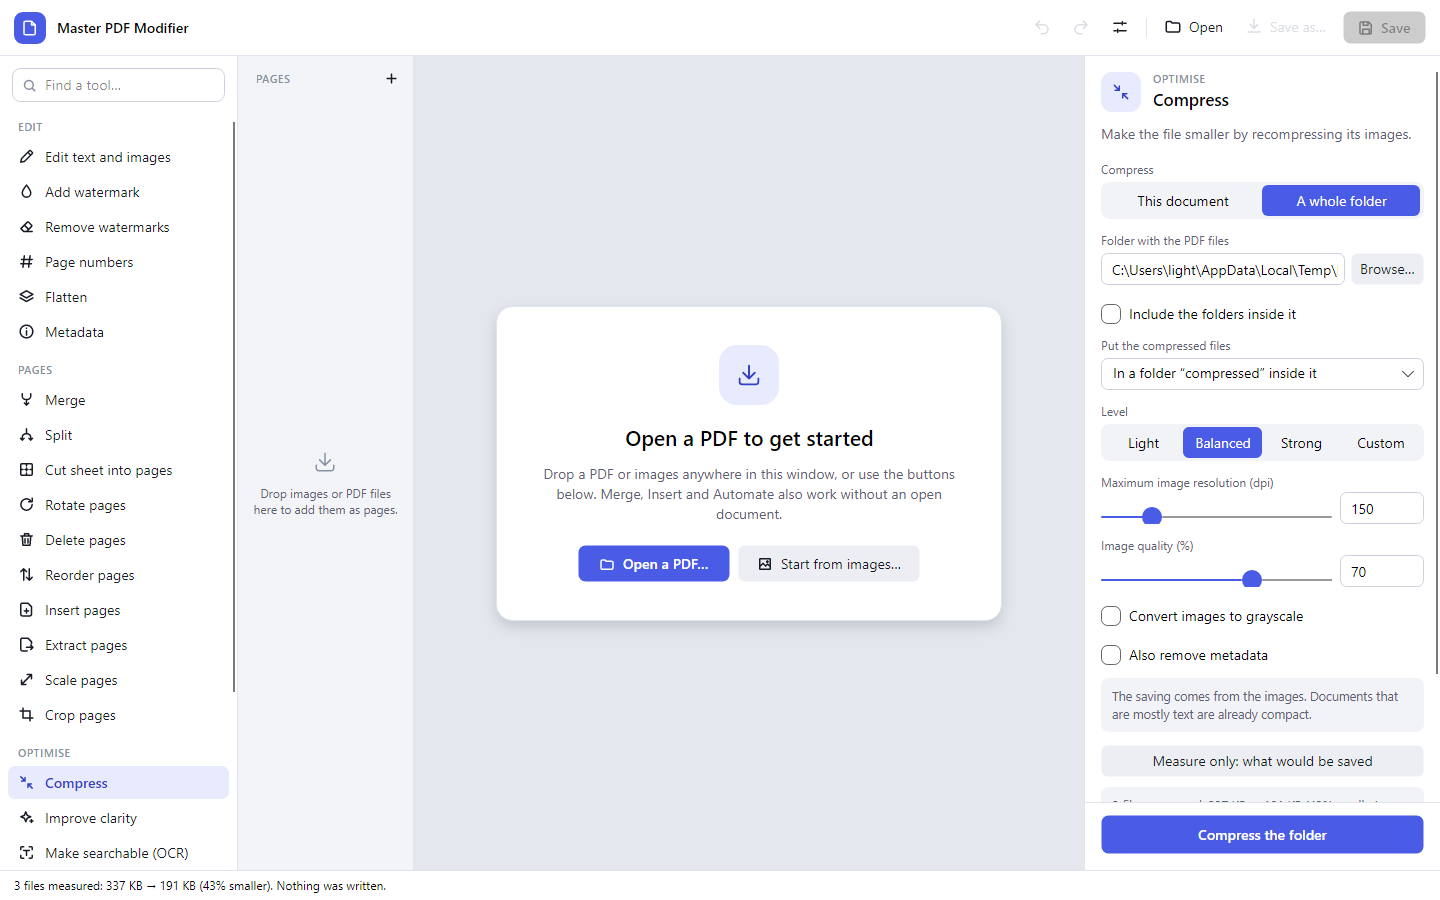
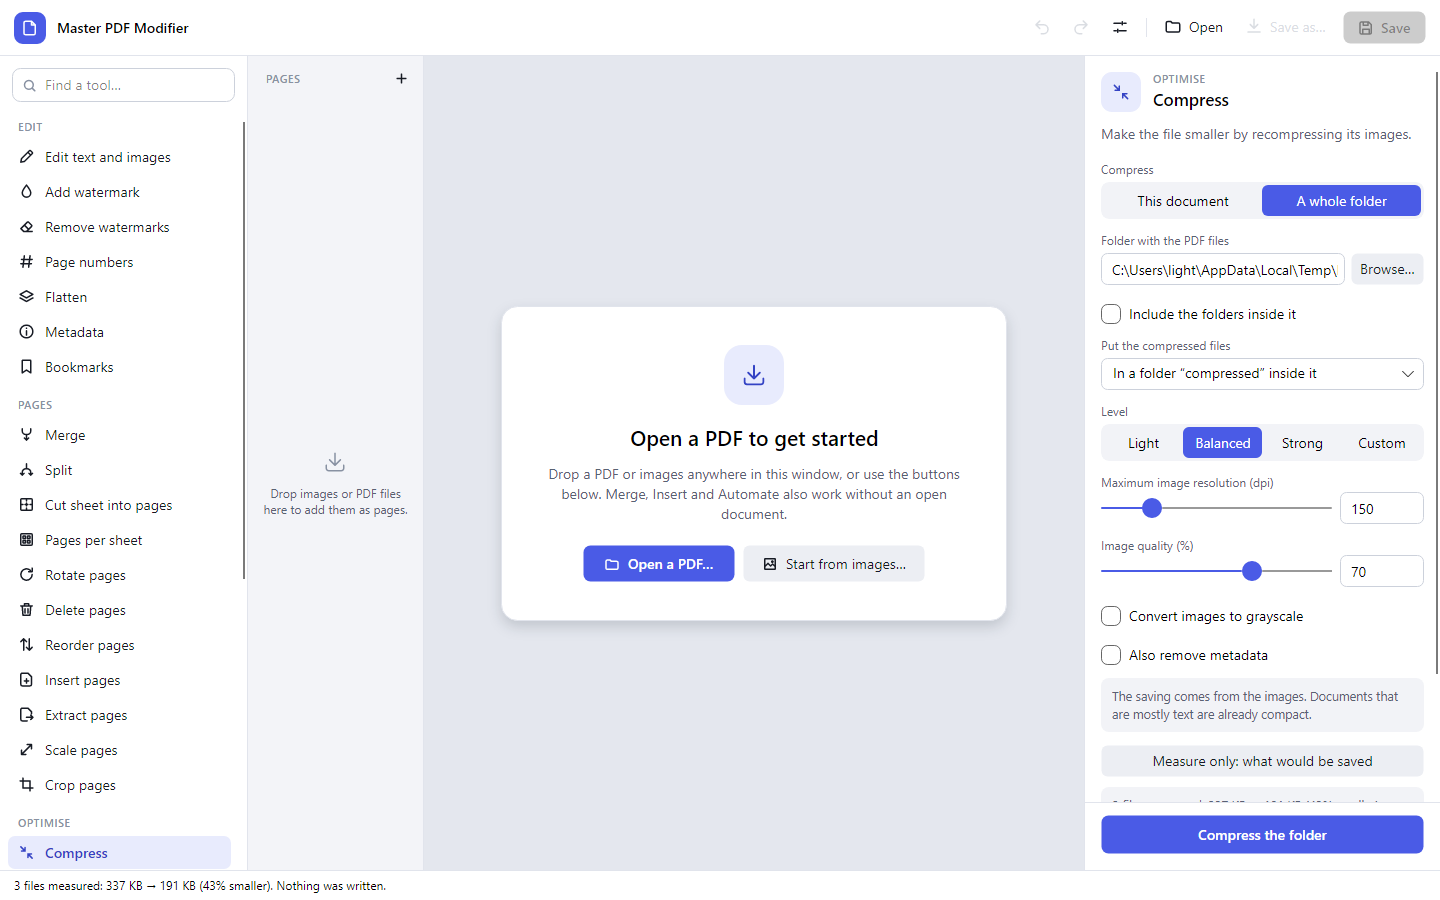
Version 0.3.0
What is new in it, and the pictures of the main page and the guide taken anew: they show the
tools that were added, and nothing cut off.

diff --git a/packaging/release-notes.md b/packaging/release-notes.md
@@ -1,8 +1,9 @@
-**New in 0.2.0**
+**New in 0.3.0**
 
-- *Cut sheet into pages* leaves out what lies around a page: the dark edge of the scanner, the rim of pages under an open book, the shadow in its fold, the black along a photocopy. A slider sets how close to the print the cut goes; strips of a set width can be taken off by hand instead. An edge that is not certain is marked red, on the sheet and in the page list.
-- *Rotate pages* is buttons that act at once (90° left, 90° right, 180°, mirrored left to right or top to bottom). It also finds the pages that lie on their side or stand on their head, shows each the way it will stand, and sets them all upright.
-- The settings of every tool are quicker to set: choices are buttons that are all on view, sliders offer the values wanted most, where a page number or a watermark goes is clicked on a small picture of a page, crop shows a frame that is pulled into place, and every tool says which pages it is going to work on.
+- The app updates itself: **Update now** in the settings fetches the new version, checks it against the checksum published here and puts it in place, then opens again. Coming from 0.2.0 this happens by hand one last time: download and install as below, your settings stay.
+- The Windows setup lets you choose the shortcuts it makes and whether the app is offered under "Open with". Removing the app takes its shortcuts, folders and files with it and asks whether your settings and the downloaded recognition data should go as well.
+- Six more tools: *Search* (in the document or in every PDF of a folder, scans included), *Copy text and pictures*, *Extract pictures*, *Bookmarks*, *Pages per sheet* and *Check PDF/A*.
+- Nothing is cut off any more: slider handles are whole, the selected page wears its ring, a long label goes over two lines instead of running out of its button or ending in dots, every tool opens at the top of its options, and the page bar stays inside a small window. In all eight languages, and at every scaling a screen is set to.
 
 Download the file for your computer, start it, use it. No command line is involved anywhere.
 
